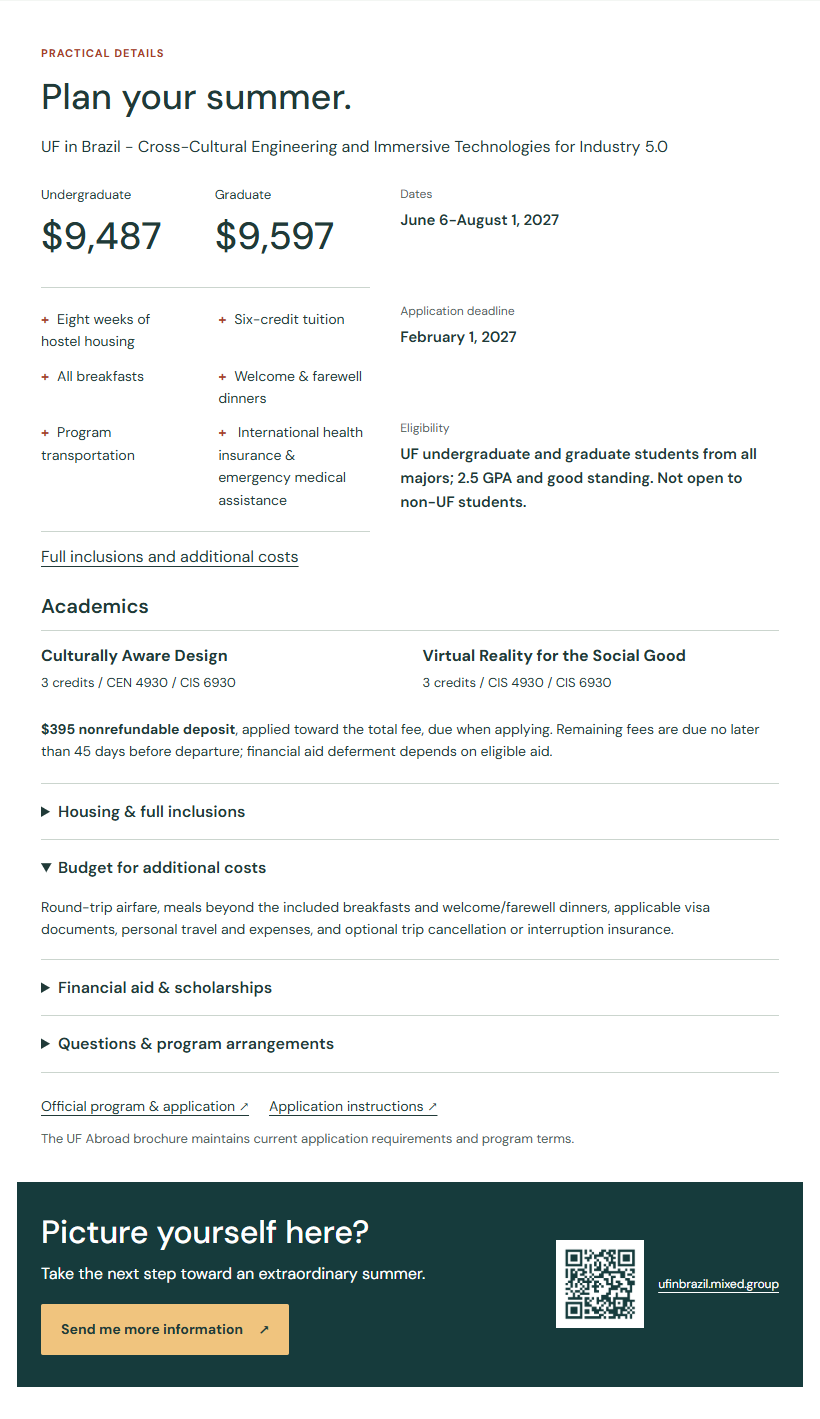
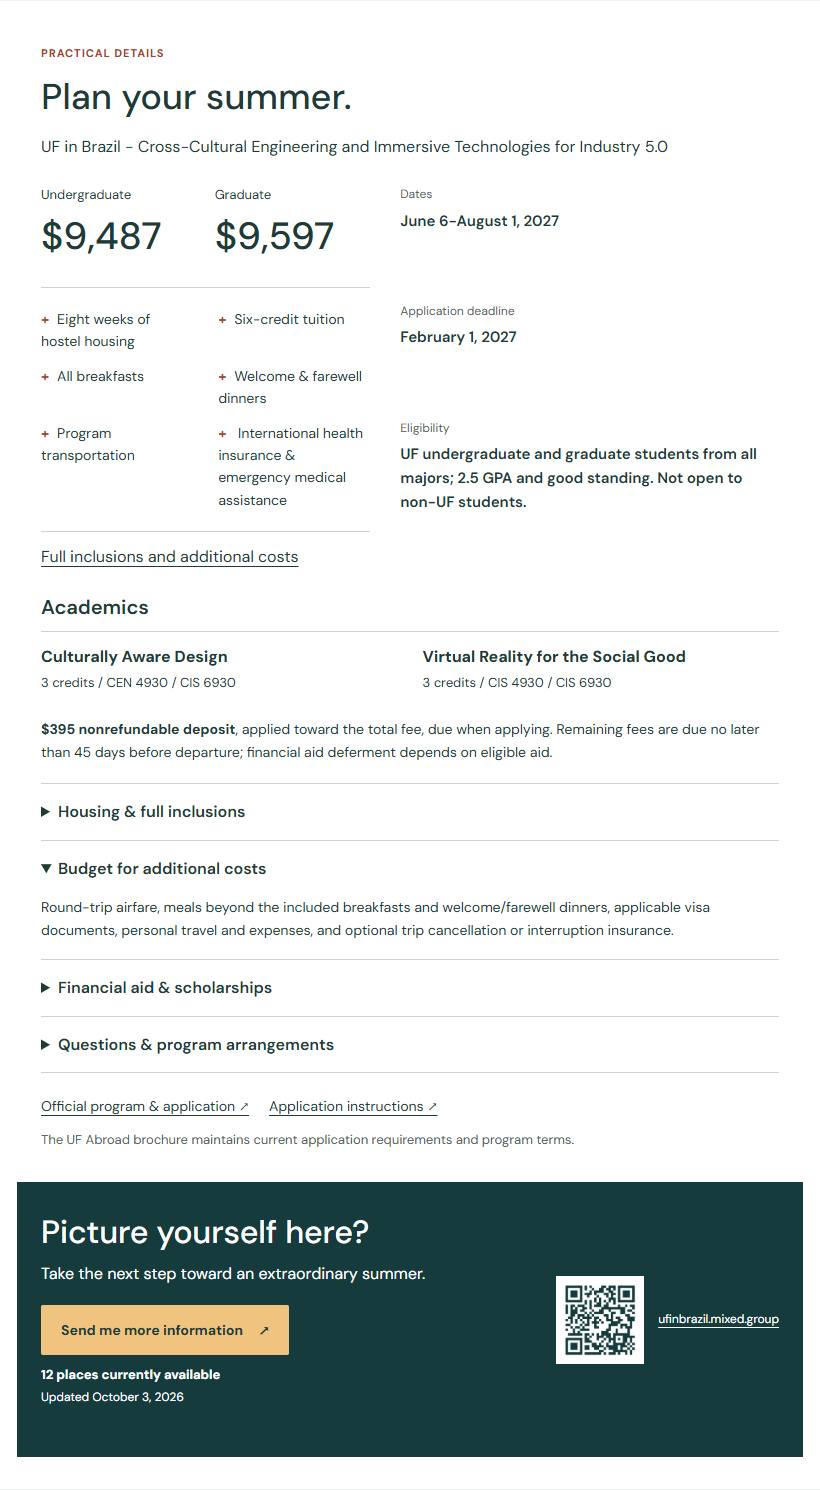
Add confirmed availability and World Cup host city feature

Changed region(s): [[0.0, 0.031, 1.0, 0.9612], [0.4878, 0.2791, 0.9146, 0.3721]]

diff --git a/index.html b/index.html
@@ -69,6 +69,7 @@
               >Download the program guide</a
             >
           </div>
+          <p class="availability" data-availability hidden></p>
           <div class="qr">
             <img
               src="assets/signup-qr.png"
@@ -422,6 +423,43 @@
         </div>
       </section>
       <section
+        class="section world-cup"
+        id="world-cup"
+        aria-labelledby="world-cup-title"
+      >
+        <figure class="stadium-photo">
+          <img
+            src="assets/salvador-stadium-concept.png"
+            width="1536"
+            height="1024"
+            loading="lazy"
+            alt="AI-generated concept of cheering spectators overlooking a football pitch at golden hour; not the actual Salvador venue or a confirmed program excursion"
+          />
+          <figcaption>
+            AI-generated illustration of match-day atmosphere.
+          </figcaption>
+        </figure>
+        <div class="world-cup-copy">
+          <h2 id="world-cup-title">Your summer. A World Cup host city.</h2>
+          <p>
+            Be in Salvador while the FIFA Women's World Cup 2027 brings
+            international football to the city. Experience the excitement of a
+            host city alongside your creative work, coastal living, and cultural
+            discoveries.
+          </p>
+          <p class="event-dates">
+            June 24&ndash;July 25, 2027 &middot; During your program
+          </p>
+          <a
+            href="https://www.fifa.com/en/tournaments/womens/womensworldcup/brazil-2027/articles/match-schedule-unveiled"
+            >FIFA's official schedule &#8599;</a
+          >
+          <p class="qualification">
+            Match attendance depends on tickets and program arrangements.
+          </p>
+        </div>
+      </section>
+      <section
         class="section practical"
         id="details"
         aria-labelledby="details-title"
@@ -560,6 +598,7 @@
               >Send me more information
               <span aria-hidden="true">&#8599;</span></a
             >
+            <p class="availability" data-availability hidden></p>
           </div>
           <div class="qr">
             <img

diff --git a/site.js b/site.js
@@ -1,5 +1,32 @@
 (() => {
   const config = window.UFBrazilConfig || {};
+  const availability = config.availability;
+  if (
+    Number.isInteger(availability?.places) &&
+    availability.places >= 0 &&
+    /^\d{4}-\d{2}-\d{2}$/.test(availability.updated || "")
+  ) {
+    const date = new Date(`${availability.updated}T00:00:00Z`);
+    if (
+      !Number.isNaN(date.getTime()) &&
+      date.toISOString().slice(0, 10) === availability.updated
+    ) {
+      const updated = new Intl.DateTimeFormat("en-US", {
+        month: "long",
+        day: "numeric",
+        year: "numeric",
+        timeZone: "UTC",
+      }).format(date);
+      document.querySelectorAll("[data-availability]").forEach((block) => {
+        const count = document.createElement("strong");
+        count.textContent = `${availability.places} ${availability.places === 1 ? "place" : "places"} currently available`;
+        const stamp = document.createElement("span");
+        stamp.textContent = `Updated ${updated}`;
+        block.replaceChildren(count, stamp);
+        block.hidden = false;
+      });
+    }
+  }
   document.querySelectorAll("[data-video]").forEach((link) => {
     const id = link.dataset.video;
     if (!/^[A-Za-z0-9_-]{11}$/.test(id)) return;

diff --git a/styles.css b/styles.css
@@ -462,6 +462,41 @@ dd {
 .academic-details {
   margin: 24px 0;
 }
+.availability {
+  font-size: 13px;
+  margin: 12px 0 0;
+}
+.availability strong,
+.availability span {
+  display: block;
+}
+.availability span {
+  font-size: 12px;
+  margin-top: 2px;
+}
+.world-cup {
+  display: grid;
+  grid-template-columns: minmax(0, 1.2fr) minmax(0, 1fr);
+  gap: 36px;
+  align-items: center;
+  background: #edf3f7;
+}
+.stadium-photo img {
+  height: auto;
+  object-fit: contain;
+}
+.stadium-photo figcaption {
+  font-size: 13px;
+  color: #4e625a;
+  margin-top: 8px;
+}
+.world-cup-copy > p {
+  margin: 18px 0;
+}
+.event-dates {
+  font-size: 14px;
+  font-weight: 600;
+}
 .academic-details .courses {
   margin-top: 12px;
   padding-top: 12px;
@@ -470,6 +505,13 @@ dd {
   grid-template-columns: 1fr 1fr;
 }
 @media (max-width: 760px) {
+  .world-cup {
+    grid-template-columns: 1fr;
+    gap: 20px;
+  }
+  .world-cup-copy {
+    grid-row: 1;
+  }
   .project-layout {
     grid-template-columns: 1fr;
     gap: 18px;

diff --git a/site-config.js b/site-config.js
@@ -1,5 +1,7 @@
 // Public configuration only. Keep provider credentials on the signup service.
 window.UFBrazilConfig = Object.freeze({
+  // Update only from confirmed program availability, never information signups.
+  availability: Object.freeze({ places: 12, updated: "2026-10-03" }),
   signupEndpoint: null,
   programGuideUrl: null,
   bookVisualUrl: "assets/book-cover-mockup.png",

diff --git a/docs/PR.md b/docs/PR.md
@@ -1,6 +1,6 @@
 ## Change
 
-The previous recruitment page delayed the opening image on phones, repeated the all-majors invitation, and directed every main action to application. This revision presents seven concise sections: opening, outcomes, project/roles, book participation, research/industry, coastal life/value, and practical details/signup.
+The previous recruitment page delayed the opening image on phones, repeated the all-majors invitation, and directed every main action to application. This revision presents eight concise sections: opening, outcomes, project/roles, book participation, research/industry, coastal life/value, World Cup host-city experience, and practical details/signup.
 
 Preserves the opening image, cleared coastal photographs with attribution, official application link, useful cultural resources, keyboard disclosures, skip link, and reduced motion. Includes the approved Ford and English-language context naming Dr. Alexandre Siqueira's Summer 2026 course, full-stay hostel coverage, visible prices, UNESCO/SVR 2025 context, and stronger book recognition. Two visible previews now load embedded players on click so students can watch in place; fallback YouTube links remain. Opening/closing QR codes point to the main website. The book spread is explicitly labeled concept artwork.
 
@@ -26,6 +26,11 @@ The opening now uses the approved AI-generated immersive-project scene from the 
 - Docker build and production email delivery were not tested.
 
 ## Screenshots
+
+Added the director-confirmed availability snapshot (12 places, October 3, 2026) at both opening and closing, maintained in one editable configuration and never reduced by information signups. Added a brief image-led World Cup host-city feature after coastal life with the supplied AI stadium illustration, FIFA schedule link, tournament dates, and ticket/program qualification. This extends the page to eight sections. Tests cover shared availability rendering, editable count/date, signup independence, feature order, and uncropped stadium imagery.
+
+![Desktop World Cup feature](https://raw.githubusercontent.com/agsiqueira/uf-brazil-website/codex/recruitment-seven-section/docs/screenshots/desktop-world-cup.png)
+![Phone World Cup feature](https://raw.githubusercontent.com/agsiqueira/uf-brazil-website/codex/recruitment-seven-section/docs/screenshots/phone-world-cup.png)
 
 Latest refinement adds the supplied project concept image, preserves natural coastal image proportions, combines housing, moves inclusions beside fees and courses into Academics, and consolidates research evidence/English support without increasing page text. Responsive crop/order assertions pass. Real HTTP playback in Edge was verified through advancing clocks and successful media responses with the correct Referer; Error 153 was not reproduced. The in-app browser also played both videos. The older public HTTPS page has no click-to-load players, so this PR's deployed HTTPS playback remains unverified. Request/header/context evidence is in `docs/video-verification.json`; see release notes for diagnosis and follow-up.
 

diff --git a/docs/RELEASE.md b/docs/RELEASE.md
@@ -46,6 +46,10 @@ Alex supplied `Updated Author Credit Book Mockup.png`, now included as `assets/b
 
 ## Verification
 
+Availability is the director-supplied snapshot of 12 places, updated October 3, 2026. Maintain `availability.places` and `availability.updated` together in `site-config.js` from actual program availability; no booking-system integration is configured. Information requests do not reserve places or change this number. Both opening and closing displays use the same snapshot.
+
+The brief World Cup feature follows coastal life. The director-supplied `Golden hour in Salvador's stadium.png` is stored as `assets/salvador-stadium-concept.png`; it is an AI illustration, not an actual venue photograph or confirmed excursion. Its caption and accessible description identify it as conceptual. No FIFA logo, endorsement, guaranteed tickets, or specific team's match is promised. Dates and host-city status were checked against [FIFA's tournament information](https://www.fifa.com/en/tournaments/womens/womensworldcup/brazil-2027/articles/everything-you-need-to-know) and [official schedule announcement](https://www.fifa.com/en/tournaments/womens/womensworldcup/brazil-2027/articles/match-schedule-unveiled).
+
 The opening asset was subsequently upgraded from the PDF extraction to Alex's supplied full-resolution `Students project stories onto Pelourinho.png` (1774 x 887). Desktop allocates approximately two-thirds of the hero to this image; the entire scene remains uncropped on every checked viewport.
 
 Run `npm ci`, install a Playwright Chromium browser (`npx playwright install chromium`), then `npm run check`. On Windows with installed Edge, use `$env:PLAYWRIGHT_CHANNEL='msedge'; npm run check` instead.

diff --git a/README.md b/README.md
@@ -29,6 +29,8 @@ Both attributions are visible in the footer. These images show the village, not 
 
 ## Checks
 
+Program availability is edited once in `site-config.js`: `availability.places` and its ISO `availability.updated` date. Use only actual availability confirmed by the program director. Both page displays share this configuration; information signups never decrement it. There is no availability feed or simulated update.
+
 Run `npx playwright install chromium`, then `npm run check`. Windows can use installed Edge with `$env:PLAYWRIGHT_CHANNEL='msedge'; npm run check`. The script starts and stops its own isolated local server. Screenshots and results are written under `docs/` and are excluded from the production Docker image.
 
 Run `npm run format` for formatting. The check suite verifies responsive layouts, automated accessibility, keyboard/reduced-motion behavior, and honest signup acknowledgement handling. No real email is sent in tests.
